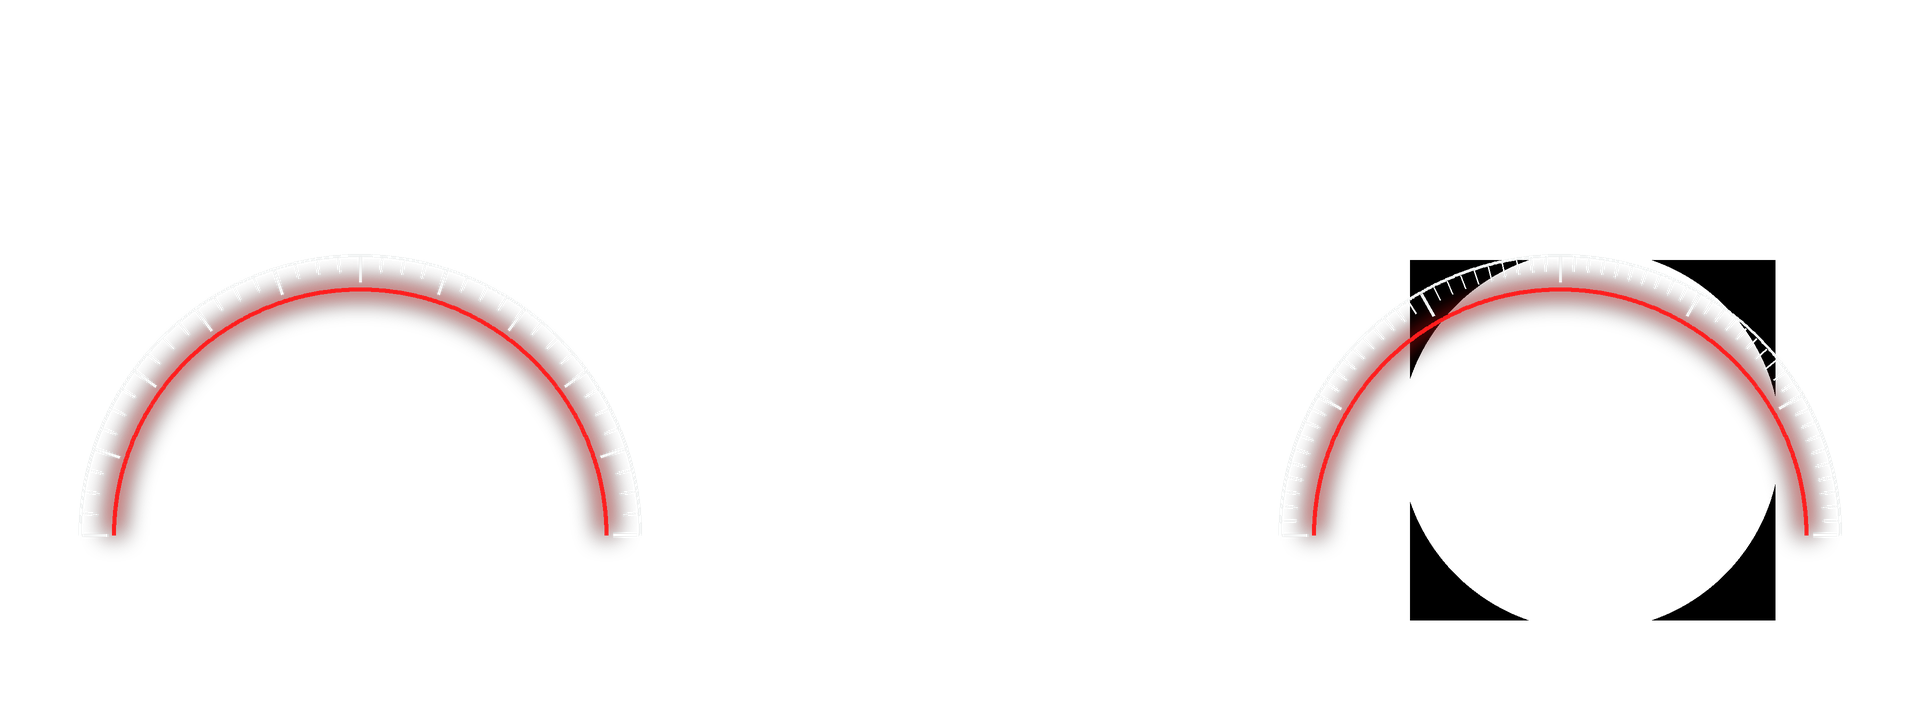
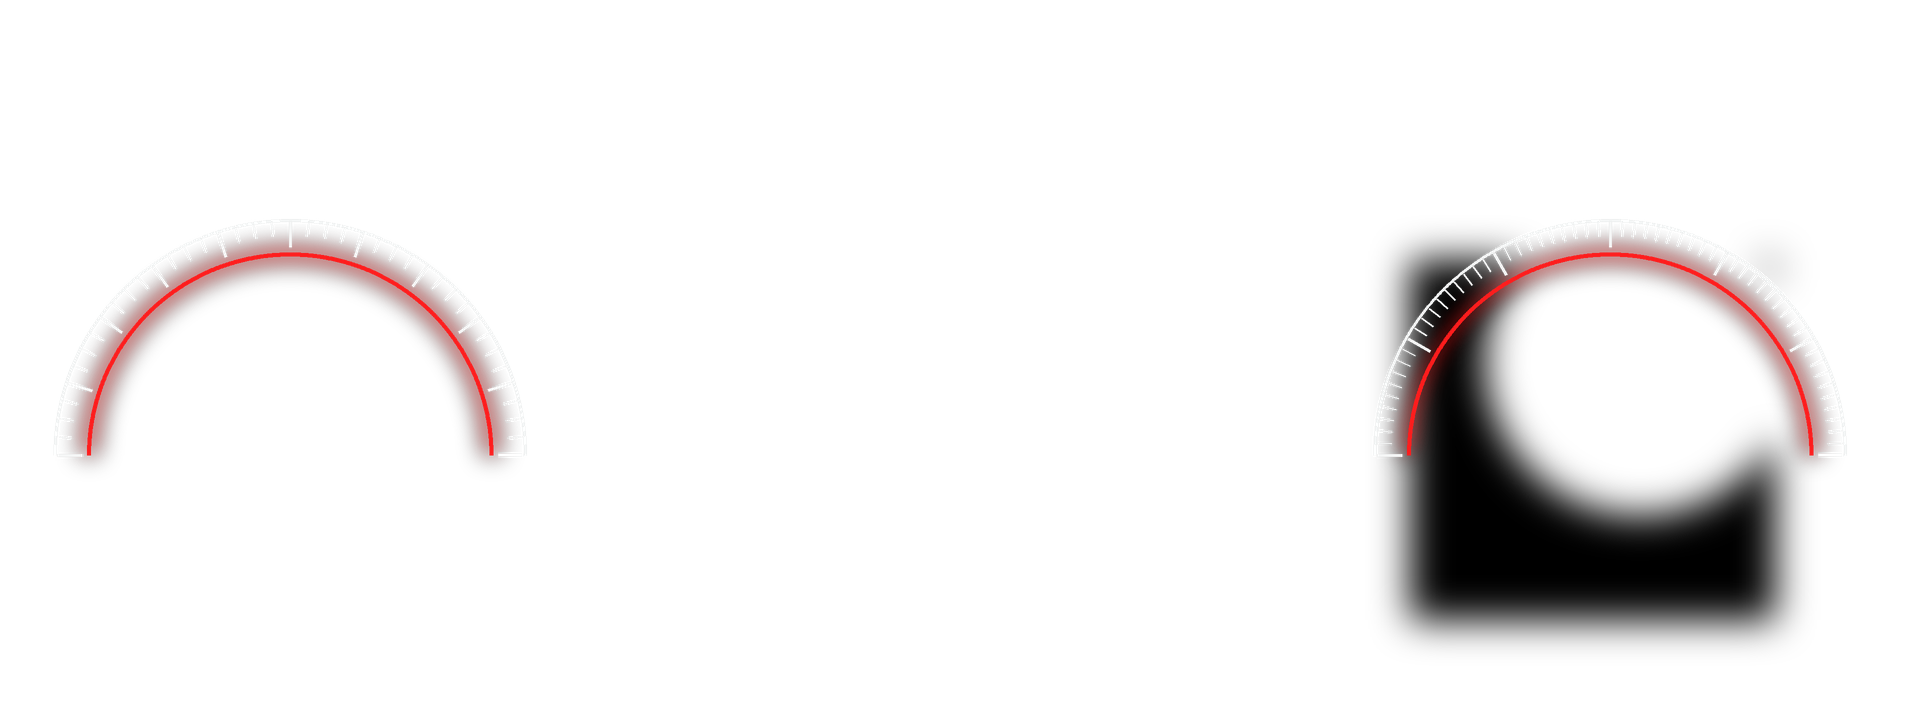
fix: refine Simple Red layout

Changed region(s): [[0.6562, 0.3056, 0.9688, 0.9167], [0.0312, 0.3056, 0.3438, 0.7639]]

diff --git a/app/src/test/java/net/adminrunet/h9cluster/skins/simplered/SimpleRedLayoutTest.java b/app/src/test/java/net/adminrunet/h9cluster/skins/simplered/SimpleRedLayoutTest.java
@@ -27,16 +27,71 @@ public final class SimpleRedLayoutTest {
         for (int index = 0; index <= 8; index++) {
             float fraction = index / 8.0f;
             assertEquals(
-                    1920.0f
-                            - SimpleRedLayout.scaleX(
+                    SimpleRedLayout.RIGHT_GAUGE_CENTER_X
+                            - (SimpleRedLayout.scaleX(
                                     1.0f - fraction,
-                                    false),
+                                    false)
+                            - SimpleRedLayout.LEFT_GAUGE_CENTER_X),
                     SimpleRedLayout.scaleX(fraction, true),
                     0.001f);
             assertEquals(
                     SimpleRedLayout.scaleY(fraction),
                     SimpleRedLayout.scaleY(1.0f - fraction),
                     0.001f);
+        }
+    }
+
+    @Test
+    public void gaugesFrameFactoryReadoutsAndBottomValues() {
+        assertEquals(
+                290.0f,
+                SimpleRedLayout.LEFT_GAUGE_CENTER_X,
+                0.001f);
+        assertEquals(
+                1610.0f,
+                SimpleRedLayout.RIGHT_GAUGE_CENTER_X,
+                0.001f);
+        assertEquals(
+                455.0f,
+                SimpleRedLayout.GAUGE_CENTER_Y,
+                0.001f);
+        assertEquals(
+                235.0f,
+                SimpleRedLayout.GAUGE_RADIUS,
+                0.001f);
+        assertEquals(
+                668.0f,
+                SimpleRedLayout.FUEL_LITERS_BASELINE,
+                0.001f);
+        assertEquals(
+                665.0f,
+                SimpleRedLayout.COOLANT_BASELINE,
+                0.001f);
+        assertEquals(
+                655.0f,
+                SimpleRedLayout.TRANSMISSION_BASELINE,
+                0.001f);
+        assertEquals(
+                1645.0f,
+                SimpleRedLayout.COOLANT_X,
+                0.001f);
+        assertEquals(
+                208.0f,
+                SimpleRedLayout.PROGRESS_BAND_RADIUS,
+                0.001f);
+        assertEquals(
+                SimpleRedLayout.TRANSMISSION_BASELINE,
+                SimpleRedLayout.TRANSMISSION_LABEL_Y,
+                0.001f);
+        try {
+            float labelX = SimpleRedLayout.class
+                    .getDeclaredField("TRANSMISSION_LABEL_X")
+                    .getFloat(null);
+            org.junit.Assert.assertTrue(
+                    labelX < SimpleRedLayout.TRANSMISSION_X);
+        } catch (ReflectiveOperationException error) {
+            org.junit.Assert.fail(
+                    "TRANSMISSION_LABEL_X must place АКПП left of value");
         }
     }
 
@@ -165,8 +220,6 @@ public final class SimpleRedLayoutTest {
         org.junit.Assert.assertTrue(
                 SimpleRedLayout.PROGRESS_GLOW_WIDTH
                         > SimpleRedLayout.PROGRESS_CORE_WIDTH);
-        org.junit.Assert.assertTrue(
-                SimpleRedLayout.PROGRESS_BAND_RADIUS > 250.0f);
         assertEquals(
                 0x08FF2020,
                 SimpleRedLayout.PROGRESS_START_COLOR);

diff --git a/tools/test_build_simple_red_assets.py b/tools/test_build_simple_red_assets.py
@@ -85,24 +85,60 @@ class SimpleRedAssetsTest(unittest.TestCase):
     def test_gauge_centers_and_lower_factory_zones_remain_clear(self):
         alpha = np.asarray(self.render_background())[:, :, 3]
 
-        self.assertEqual(0, alpha[535, 360])
-        self.assertEqual(0, alpha[535, 1560])
+        self.assertEqual(
+            0,
+            alpha[
+                round(assets.GAUGE_CENTER_Y),
+                round(assets.LEFT_GAUGE_CENTER_X),
+            ],
+        )
+        self.assertEqual(
+            0,
+            alpha[
+                round(assets.GAUGE_CENTER_Y),
+                round(assets.RIGHT_GAUGE_CENTER_X),
+            ],
+        )
         self.assertEqual(
             0,
             np.count_nonzero(alpha[630:720, 250:690]),
         )
         self.assertEqual(
             0,
-            np.count_nonzero(alpha[630:720, 1230:1670]),
+            np.count_nonzero(alpha[670:720, 1230:1670]),
         )
 
     def test_notification_mask_covers_only_outer_corners(self):
         result = np.asarray(self.render_background())
 
-        for x, y in assets.NOTIFICATION_MASK_CORNERS:
-            self.assertEqual((0, 0, 0, 255), tuple(result[y, x]))
+        self.assertEqual(
+            (
+                assets.RIGHT_GAUGE_CENTER_X + 30,
+                assets.GAUGE_CENTER_Y - 95,
+            ),
+            assets.NOTIFICATION_APERTURE_CENTER,
+        )
+        self.assertEqual(
+            assets.GAUGE_RADIUS - 80,
+            assets.NOTIFICATION_APERTURE_RADIUS,
+        )
+        self.assertGreater(result[580, 1450, 3], 240)
         center_x, center_y = assets.NOTIFICATION_APERTURE_CENTER
         self.assertEqual(0, result[center_y, center_x, 3])
+
+        mask = Image.new(
+            "RGBA",
+            (
+                assets.SIZE[0] * assets.RENDER_SCALE,
+                assets.SIZE[1] * assets.RENDER_SCALE,
+            ),
+            (0, 0, 0, 0),
+        )
+        assets._draw_notification_corner_mask(mask)
+        mask = np.asarray(mask.resize(assets.SIZE))
+        feather_alpha = mask[440, 1405, 3]
+        self.assertGreater(feather_alpha, 0)
+        self.assertLess(feather_alpha, 255)
 
     def test_background_does_not_reuse_factory_sport_pixels(self):
         opaque_source = Image.new("RGBA", assets.SIZE, (255, 0, 0, 255))

diff --git a/app/src/main/java/net/adminrunet/h9cluster/skins/simplered/SimpleRedLayout.java b/app/src/main/java/net/adminrunet/h9cluster/skins/simplered/SimpleRedLayout.java
@@ -10,13 +10,13 @@ final class SimpleRedLayout {
     static final float MAX_SPEED_KPH = 200.0f;
     static final float MAX_RPM = 6000.0f;
     static final boolean DRAW_SCALE_UNITS = false;
-    static final float LEFT_GAUGE_CENTER_X = 360.0f;
-    static final float RIGHT_GAUGE_CENTER_X = 1560.0f;
-    static final float GAUGE_CENTER_Y = 535.0f;
-    static final float GAUGE_RADIUS = 280.0f;
+    static final float LEFT_GAUGE_CENTER_X = 290.0f;
+    static final float RIGHT_GAUGE_CENTER_X = 1610.0f;
+    static final float GAUGE_CENTER_Y = 455.0f;
+    static final float GAUGE_RADIUS = 235.0f;
     static final int MAIN_SCALE_POINT_COUNT = 10;
-    static final float MAIN_SCALE_LABEL_OFFSET = 72.0f;
-    static final float PROGRESS_BAND_RADIUS = 253.0f;
+    static final float MAIN_SCALE_LABEL_OFFSET = 60.0f;
+    static final float PROGRESS_BAND_RADIUS = 208.0f;
     static final float PROGRESS_HALO_WIDTH = 46.0f;
     static final float PROGRESS_GLOW_WIDTH = 32.0f;
     static final float PROGRESS_CORE_WIDTH = 18.0f;
@@ -58,14 +58,13 @@ final class SimpleRedLayout {
     static final float CONSUMPTION_X = 24.0f;
     static final float CONSUMPTION_BASELINE = FACTORY_SCALE_BASELINE;
     static final float FUEL_LITERS_X = 170.0f;
-    static final float FUEL_LITERS_BASELINE = FACTORY_SCALE_BASELINE - 43.0f;
-    static final float COOLANT_X = 1570.0f;
-    static final float COOLANT_BASELINE = FACTORY_SCALE_BASELINE - 43.0f;
+    static final float FUEL_LITERS_BASELINE = 668.0f;
+    static final float COOLANT_X = 1645.0f;
+    static final float COOLANT_BASELINE = 665.0f;
     static final float TRANSMISSION_X = 1710.0f;
-    static final float TRANSMISSION_BASELINE =
-            FACTORY_SCALE_BASELINE - 43.0f;
-    static final float TRANSMISSION_LABEL_Y =
-            TRANSMISSION_BASELINE + 15.0f;
+    static final float TRANSMISSION_BASELINE = 655.0f;
+    static final float TRANSMISSION_LABEL_X = 1702.0f;
+    static final float TRANSMISSION_LABEL_Y = TRANSMISSION_BASELINE;
     static final float VOLTAGE_X = 1896.0f;
     static final float VOLTAGE_BASELINE = FACTORY_SCALE_BASELINE;
 

diff --git a/tools/build_simple_red_assets.py b/tools/build_simple_red_assets.py
@@ -9,16 +9,17 @@ from PIL import Image, ImageDraw, ImageFilter, ImageFont
 
 SIZE = (1920, 720)
 RENDER_SCALE = 2
-LEFT_GAUGE_CENTER_X = 360.0
-RIGHT_GAUGE_CENTER_X = 1560.0
-GAUGE_CENTER_Y = 535.0
-GAUGE_RADIUS = 280.0
+LEFT_GAUGE_CENTER_X = 290.0
+RIGHT_GAUGE_CENTER_X = 1610.0
+GAUGE_CENTER_Y = 455.0
+GAUGE_RADIUS = 235.0
 SPEED_LABELS = (0, 20, 40, 60, 80, 100, 120, 140, 160, 180, 200)
 TACH_LABELS = tuple(range(7))
 
 NOTIFICATION_RECT = (1410, 260, 1775, 620)
-NOTIFICATION_APERTURE_CENTER = (1590, 440)
-NOTIFICATION_APERTURE_RADIUS = 190
+NOTIFICATION_APERTURE_CENTER = (1640, 360)
+NOTIFICATION_APERTURE_RADIUS = 155
+NOTIFICATION_EDGE_BLUR = 18.0
 NOTIFICATION_MASK_CORNERS = (
     (1415, 265),
     (1770, 265),
@@ -141,6 +142,11 @@ def _draw_notification_corner_mask(background: Image.Image) -> None:
             (center_y + radius) * RENDER_SCALE,
         ),
         fill=0,
+    )
+    mask = mask.filter(
+        ImageFilter.GaussianBlur(
+            NOTIFICATION_EDGE_BLUR * RENDER_SCALE
+        )
     )
     black = Image.new("RGBA", background.size, (0, 0, 0, 255))
     background.alpha_composite(

diff --git a/app/src/main/java/net/adminrunet/h9cluster/skins/simplered/SimpleRedClusterView.java b/app/src/main/java/net/adminrunet/h9cluster/skins/simplered/SimpleRedClusterView.java
@@ -451,12 +451,12 @@ public final class SimpleRedClusterView extends View
             configureText(
                     dataTypeface,
                     9.0f,
-                    Paint.Align.LEFT,
+                    Paint.Align.RIGHT,
                     transmissionColor,
                     true);
             canvas.drawText(
                     "АКПП",
-                    SimpleRedLayout.TRANSMISSION_X,
+                    SimpleRedLayout.TRANSMISSION_LABEL_X,
                     SimpleRedLayout.TRANSMISSION_LABEL_Y,
                     textPaint);
         }
